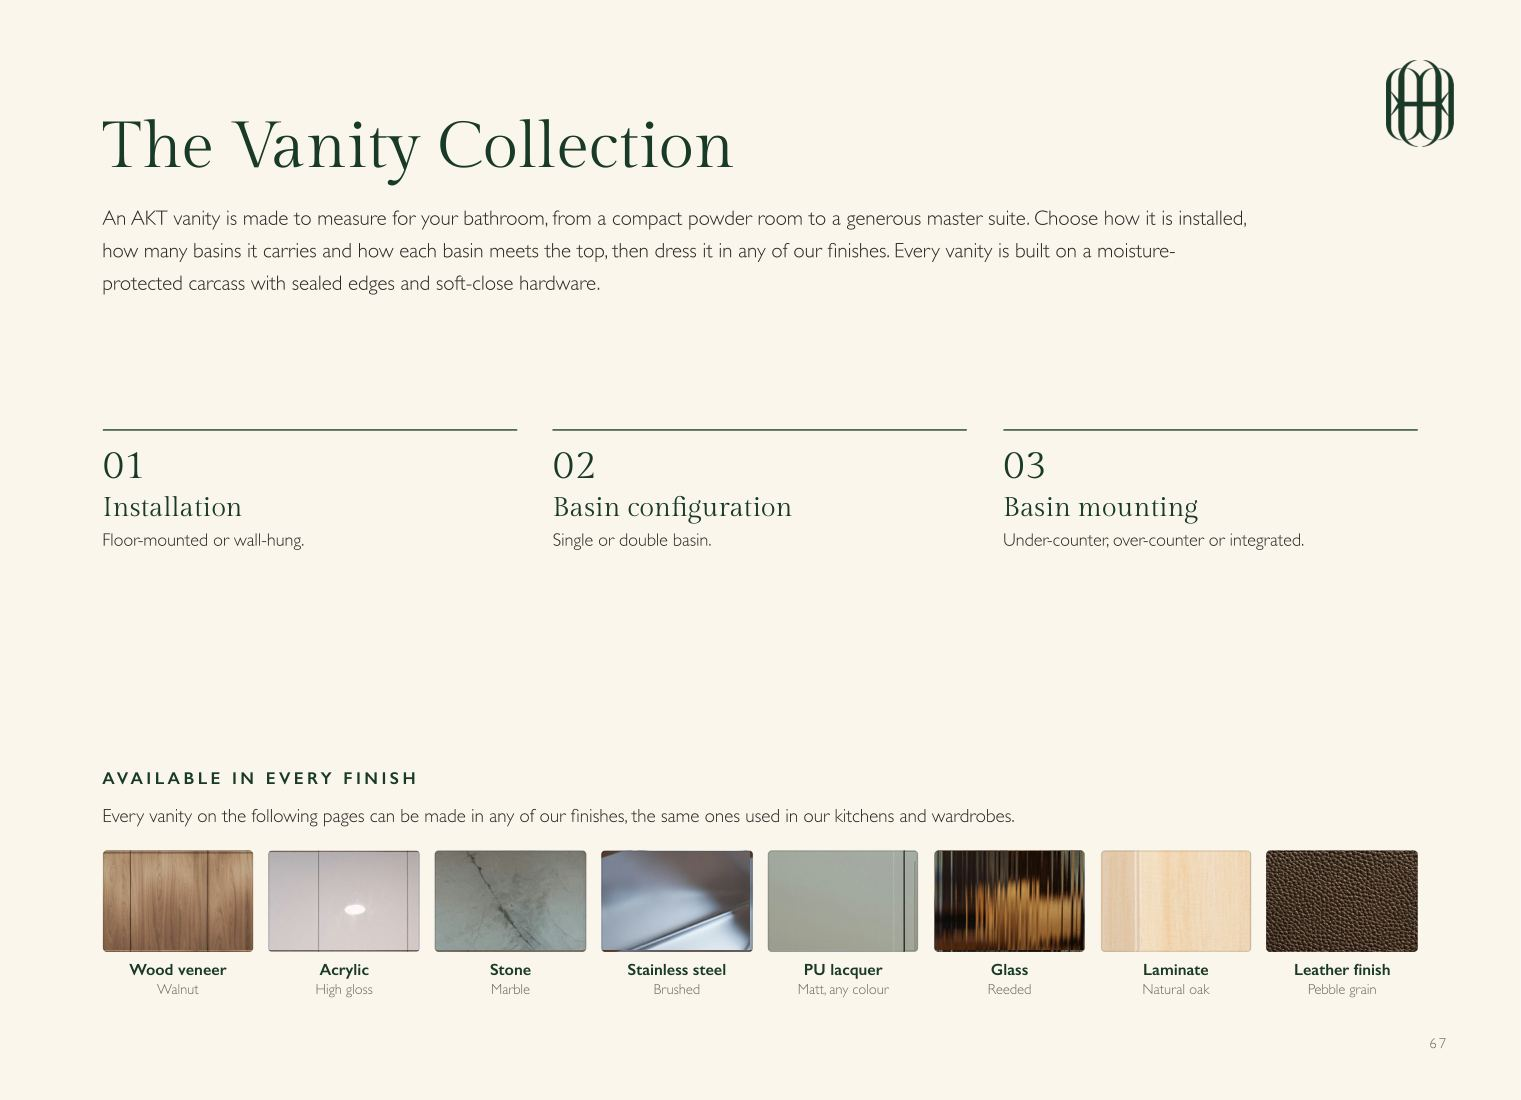
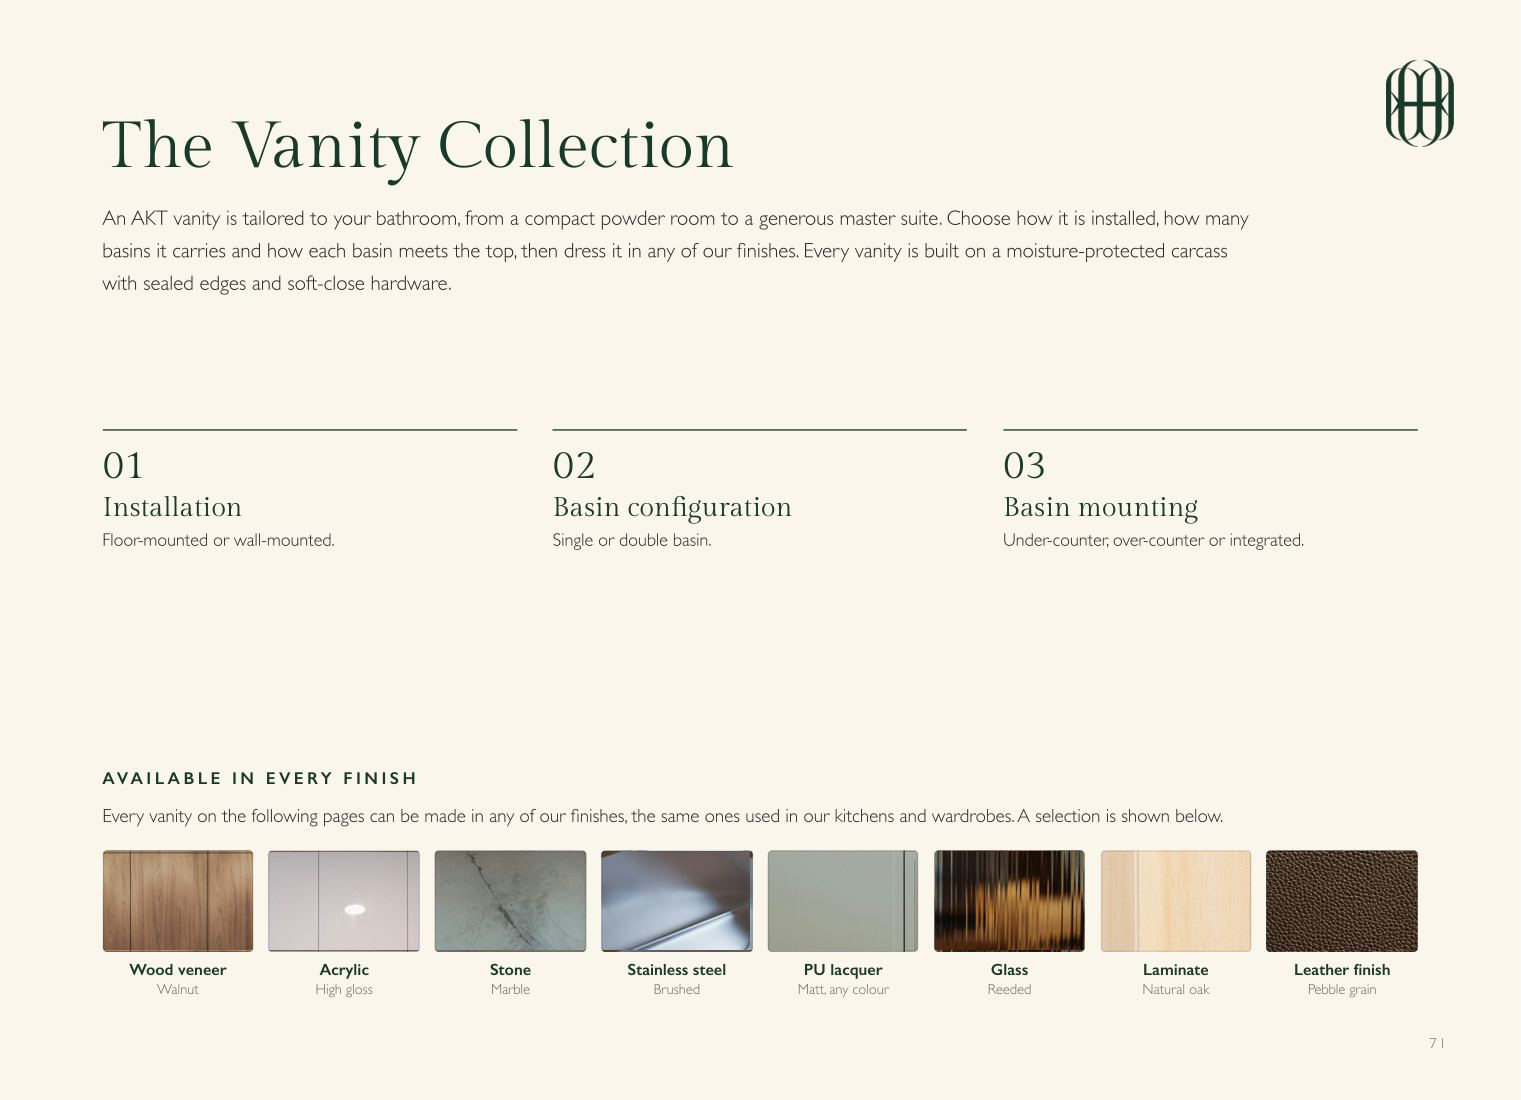
Catalogue refresh: new intro, workshop story, Stonelam, glass and partner pages

Changed region(s): [[0.0618, 0.1855, 0.8343, 0.2782], [0.1854, 0.4636, 0.2163, 0.4945]]

diff --git a/index.html b/index.html
@@ -6,7 +6,7 @@
 <title>AKT Cucine · Vanities</title>
 <meta name="description" content="AKT Cucine Vanities collection: floor-mounted and wall-hung, single and double basin, under-counter, over-counter and integrated, in every AKT finish.">
 <meta property="og:title" content="AKT Cucine · Vanities">
-<meta property="og:description" content="Bathroom storage built for water, not just for looks.">
+<meta property="og:description" content="Bathroom furniture in every AKT finish.">
 <meta property="og:image" content="pages/01.jpg">
 <meta name="theme-color" content="#193a27">
 <meta name="robots" content="noindex, nofollow">
